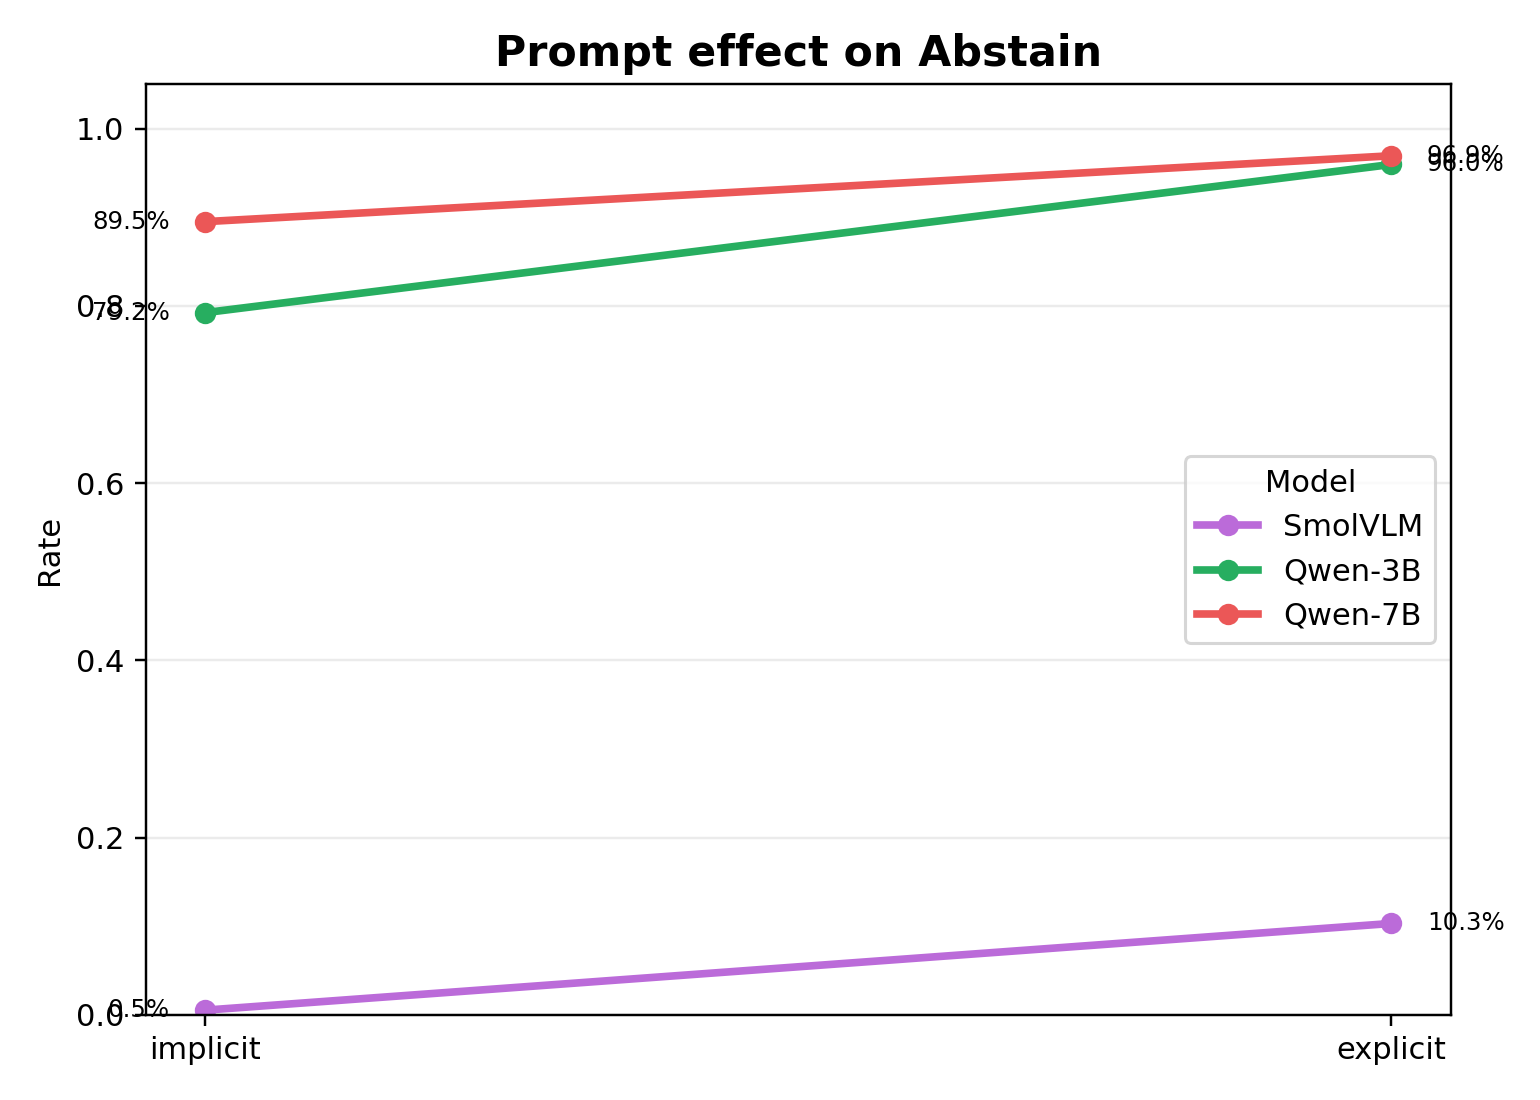
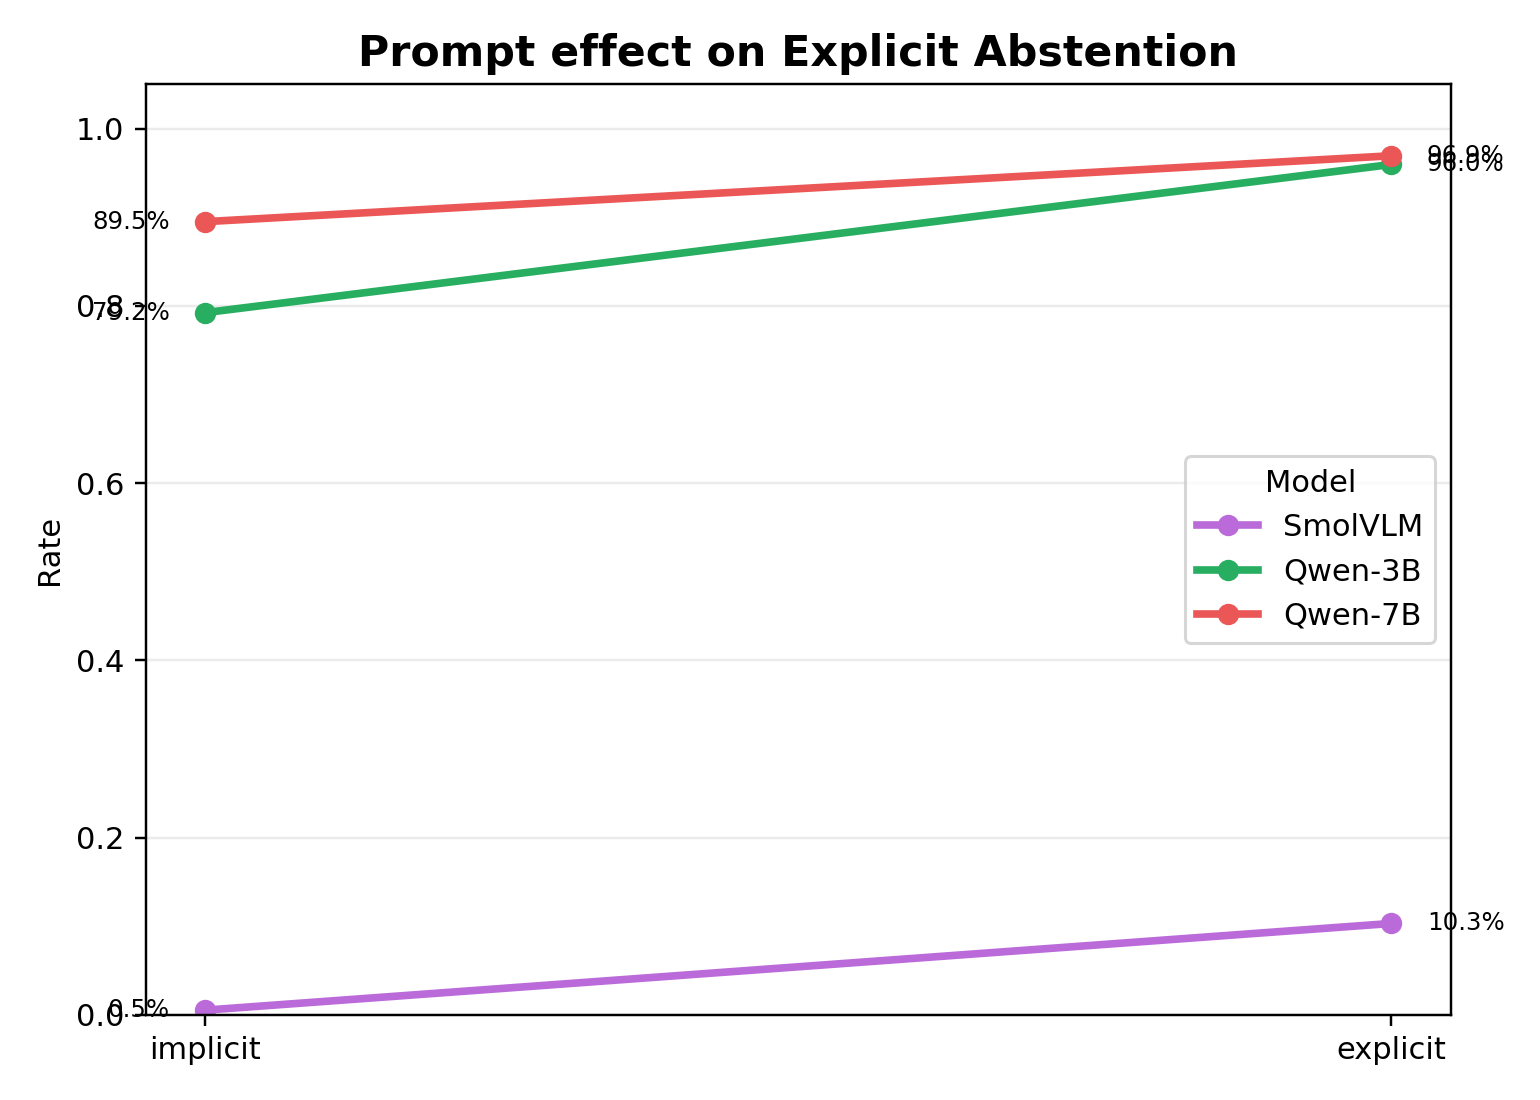
Refine Phantom-0 visualization design

Changed region(s): [[0.2182, 0.0309, 0.8104, 0.0618]]

diff --git a/scripts/phantom0_make_comprehensive_figures.py b/scripts/phantom0_make_comprehensive_figures.py
@@ -31,13 +31,25 @@ METRICS = [
     ("soft_mirage", "Soft MIRAGE rate"),
 ]
 
-HEADLINE_METRICS = [
+FAILURE_METRICS = [
     ("mirage", "MIRAGE"),
-    ("recognition", "Recognition"),
-    ("explicit_abstention", "Abstain"),
     ("hard_mirage", "Hard MIRAGE"),
     ("soft_mirage", "Soft MIRAGE"),
+    ("confident_answer", "Confident Answer"),
 ]
+
+SAFETY_METRICS = [
+    ("recognition", "Recognition"),
+    ("explicit_abstention", "Explicit Abstention"),
+]
+
+ANSWER_MODE_METRICS = [
+    ("confident_answer", "Confident Answer"),
+    ("hedged_answer", "Hedged Answer"),
+    ("explicit_abstention", "Explicit Abstention"),
+]
+
+HEADLINE_METRICS = FAILURE_METRICS + SAFETY_METRICS
 
 
 def model_label(model_name):

diff --git a/reports/phantom0_comprehensive_figure_index.md b/reports/phantom0_comprehensive_figure_index.md
@@ -15,6 +15,7 @@ These figures extend the Week 5 visual analysis. Most figures show both implicit
 - `figures/comprehensive/primary_mirage_by_model_condition.png`
 - `figures/comprehensive/primary_recognition_by_model_condition.png`
 - `figures/comprehensive/primary_soft_mirage_by_model_condition.png`
+- `figures/comprehensive/prompt_effect_confident_answer_slope.png`
 - `figures/comprehensive/prompt_effect_explicit_abstention_slope.png`
 - `figures/comprehensive/prompt_effect_hard_mirage_slope.png`
 - `figures/comprehensive/prompt_effect_mirage_slope.png`
